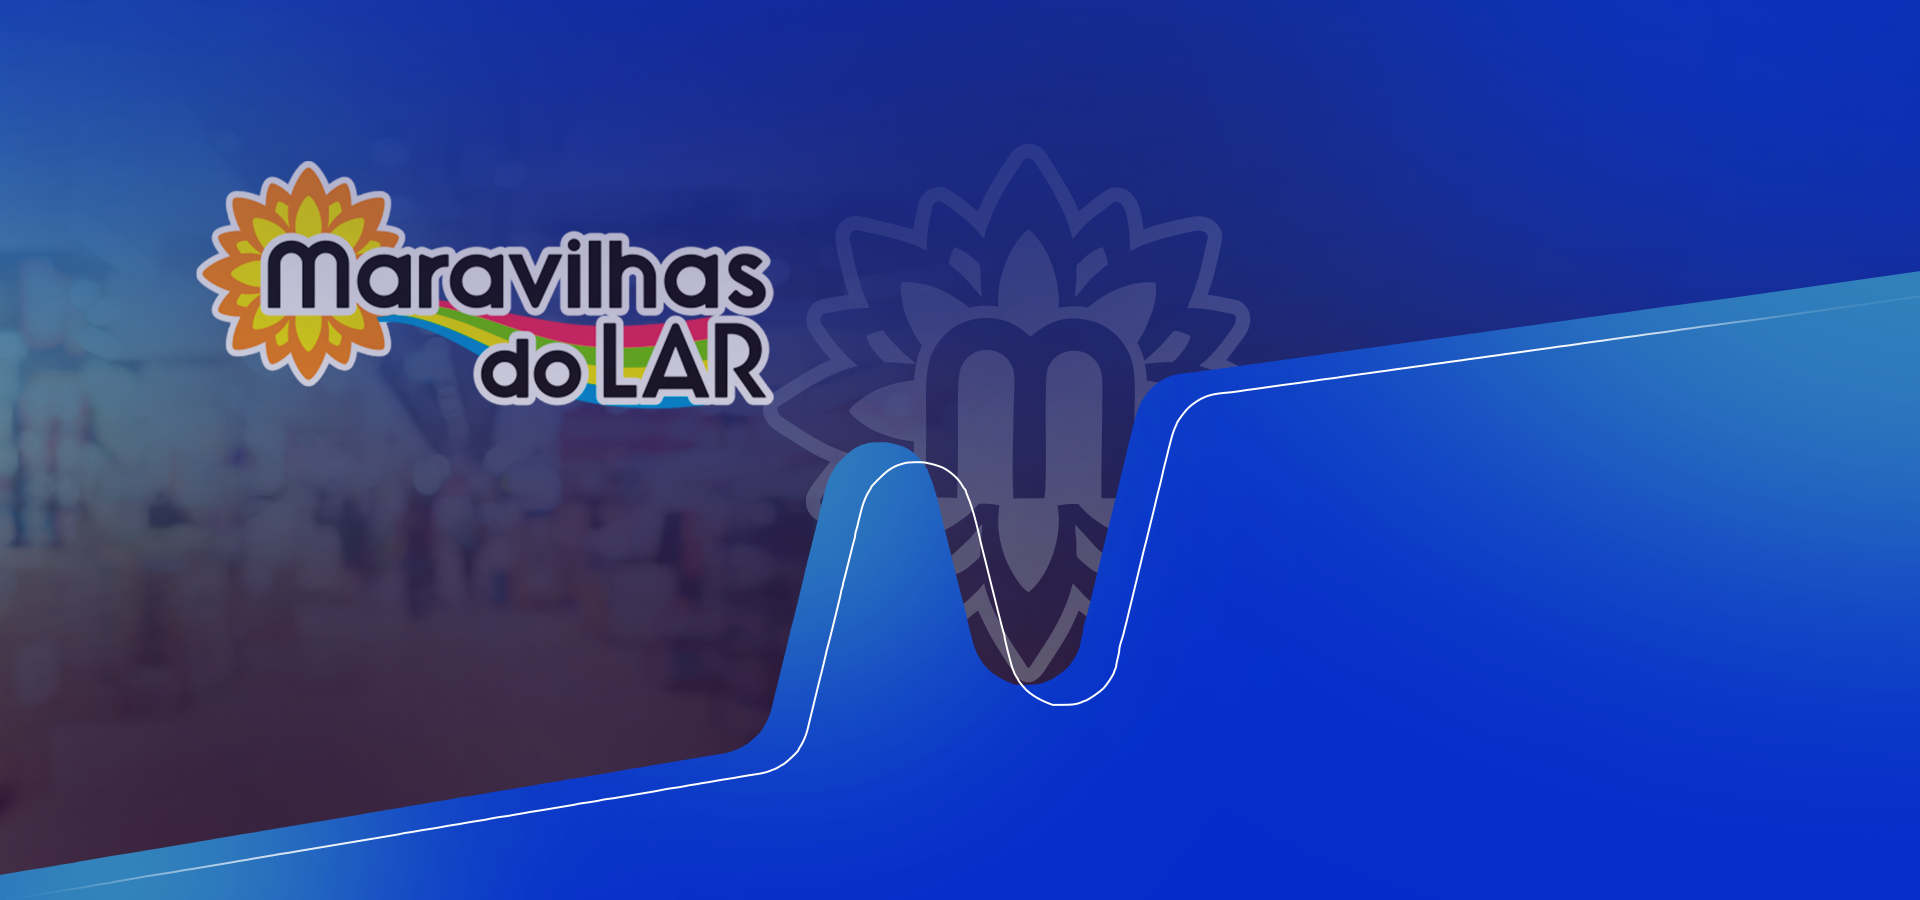
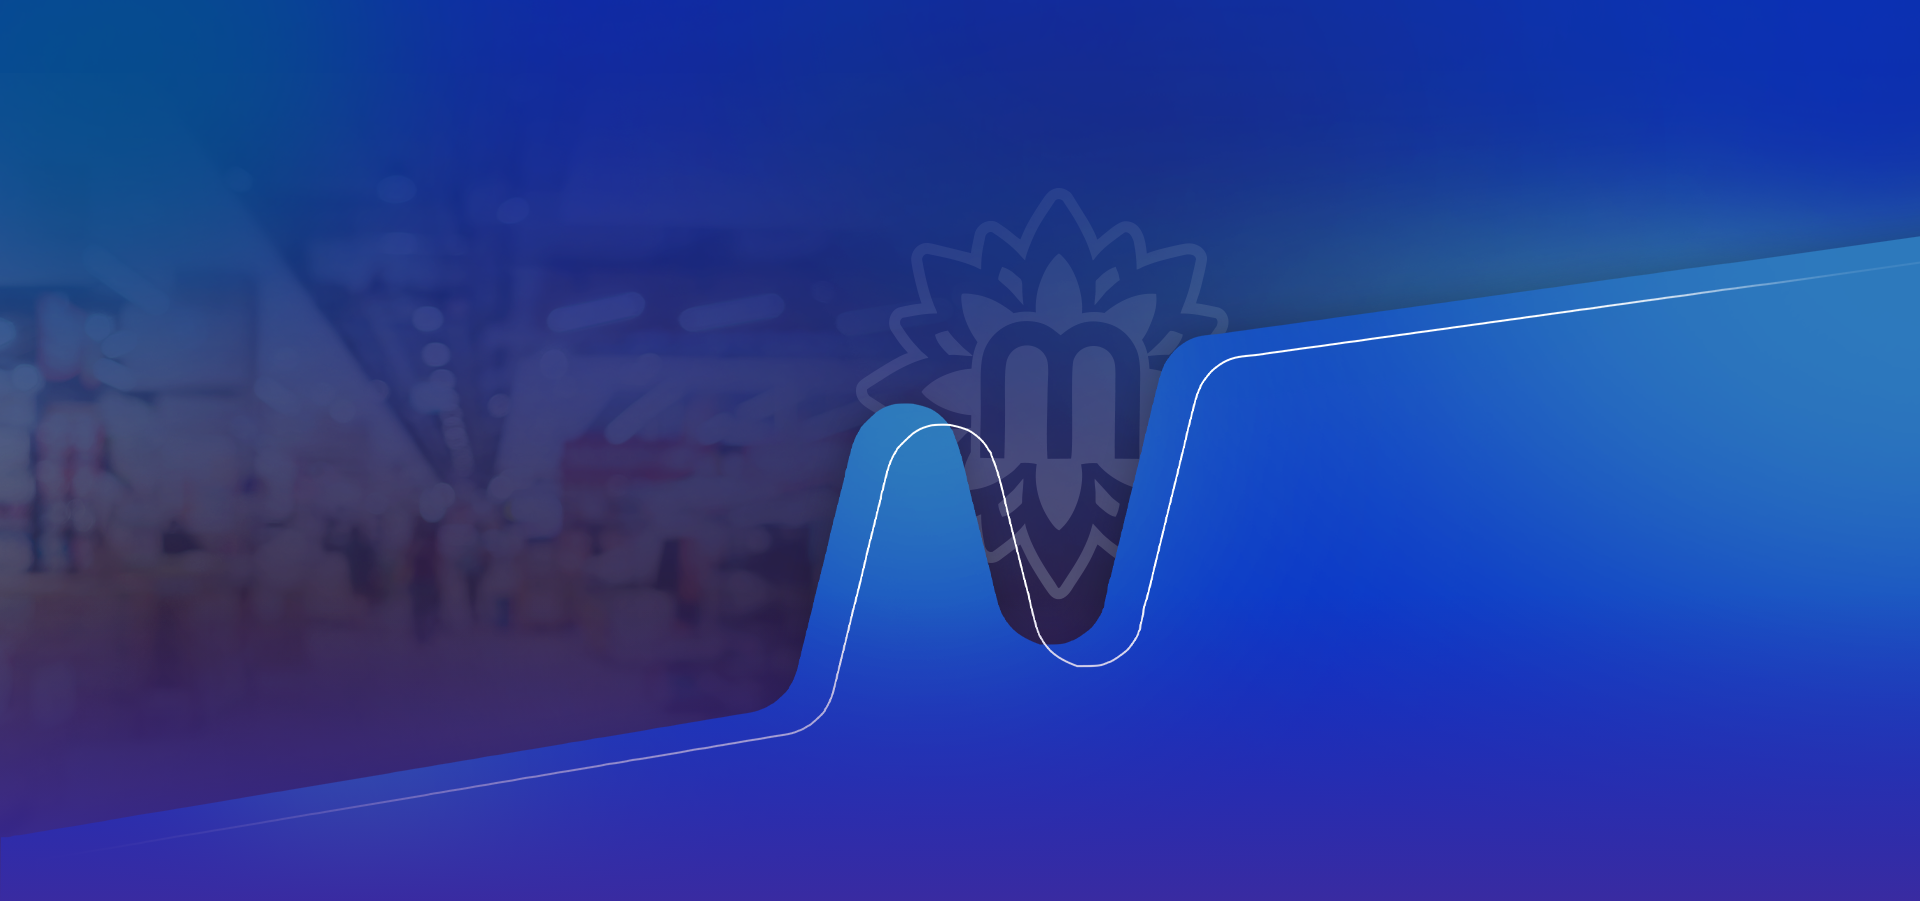
alteracoes junior - maravilhas do lar

diff --git a/components/Headerhome.js b/components/Headerhome.js
@@ -64,7 +64,60 @@ j=d.createElement(s),dl=l!='dataLayer'?'&l='+l:'';j.async=true;j.src=
   </header>
 
   <div className='owl-carousel carrossel-header'>
-    <div className="container-fluid" id="bg-carrossel1">
+  <div className="container-fluid" id="bg-carrossel1">
+      <div className="container">
+        <div className="row" id="carrossel">
+          <div className="col-12">
+            <div className="carrossel-principal">
+              <div className="row">
+                <div className="col-12 col-md-4">
+                  <div className="left-carrossel">
+                    <p>Veja como a Maravilhas do Lar <b>aumentou sua receita em 44%</b> nos 6 primeiros meses de projeto!</p>
+                  </div>
+                </div>
+                <div className="col-3 desktoponly"></div>
+                <div className="col-12 col-md-5">
+                  <div className="right-carrossel">
+                    <div className="cards d-flex text-center">
+                      <div className="card1">
+                        <div className="img-card">
+                          <Image src="/icon-user-top.svg" alt="Usuários" width={51} height={51} />
+                        </div>
+                        <div className="title-card">
+                          <p>+ de <b>46%</b> de aumento em transações</p>
+                        </div>
+                        <div className="desc-card">
+                          <p>Média mensal de transações concluídas no e-commerce.</p>
+                        </div>
+                      </div>
+                      <div className="card2">
+                        <div className="img-card">
+                          <Image src="/icon-money-top.svg" alt="Usuários" width={51} height={51} />
+                        </div>
+                        <div className="title-card">
+                          <p>+ <b>12%</b> no tráfego</p>
+                        </div>
+                        <div className="desc-card">
+                          <p>Aumento alcançado sem alterações na verba média de Investimento em Ads.</p>
+                        </div>
+                      </div>
+                    </div>
+                    <div className="descricao-right">
+                      <p className="desktoponly">O Marketing Digital, mais uma vez, mostrando-se essencial para o crescimento das empresas, independente do seu porte ou história no mercado, dessa forma trazendo resultados cada vez mais expressivos e entregando o seu produto diretamente...</p>
+                      <div className="button-right">
+                        <button><a onClick={urlCases}>Saiba Mais</a></button>
+                      </div>
+                    </div>
+                  </div>
+                </div>
+              </div>
+            </div>
+          </div>
+        </div>
+      </div>
+    </div>
+    
+    <div className="container-fluid" id="bg-carrossel2">
       <div className="container">
         <div className="row" id="carrossel">
           <div className="col-12">
@@ -118,7 +171,8 @@ j=d.createElement(s),dl=l!='dataLayer'?'&l='+l:'';j.async=true;j.src=
         </div>
       </div>
     </div>
-    <div className="container-fluid" id="bg-carrossel2">
+
+    <div className="container-fluid" id="bg-carrossel3">
       <div className="container">
         <div className="row" id="carrossel">
           <div className="col-12">

diff --git a/styles/globals.css b/styles/globals.css
@@ -256,31 +256,57 @@ a:hover, a {
   z-index: 2;
 }
 
+/*Alteração Maravilhas*/
 #bg-carrossel1 {
+  background-image: url(/bg-maravilhas-home.webp);
+  background-size: cover;
+  background-position-x: right;
+  background-position-y: top;
+}
+/*Alteração Maravilhas*/
+
+#bg-carrossel2 {
   background-image: url(/bg-bialetti-home2.webp);
   background-size: cover;
   background-position-x: right;
   background-position-y: top;
 }
 
-/* #bg-carrossel3 {
-  background-image: url(/bg-maravilhas-home.webp);
-  background-size: cover;
-  background-position-x: right;
-  background-position-y: top;
-} */
-
-#bg-carrossel2 {
+#bg-carrossel3 {
   background-image: url('/bg-nairuz-home.webp');
   background-size: cover;
   background-position-x: right;
   background-position-y: top;
 }
 
+/*Alteração Maravilhas, navs e dots*/
 .owl-carousel.carrossel-header .owl-nav,
 .owl-carousel.carrossel-header .owl-dots {
-  display: none;
+  display: flex;
+  position: absolute;
+  top: 26rem;
+  left: 13rem;
+  filter: brightness(7.0);
 }
+
+.owl-carousel.carrossel-header .owl-dots{
+  position: absolute;
+  top: 13.5rem;
+  left: calc(13rem - 10px);
+}
+
+.owl-carousel.carrossel-header .owl-dots .owl-dot{
+  margin: 0 10px;
+  background-color: #fff;
+  width: 14px;
+  height: 14px;
+  border-radius: 50%;
+}
+
+.owl-carousel.carrossel-header .owl-dots .active{
+  background-color: aqua;
+}
+/*Alteração Maravilhas, navs e dots*/
 
 .menu ul {
   display: flex;
@@ -695,11 +721,11 @@ a:hover, a {
   line-height: 1.4;
 }
 
-#bg-carrossel2 .op-0 {
+#bg-carrossel3 .op-0 {
   opacity: 0;
 }
 
-#bg-carrossel2 .descricao-right {
+#bg-carrossel3 .descricao-right {
   bottom: 2rem;
   top: 0;
 }

diff --git a/styles/responsive.css b/styles/responsive.css
@@ -31,13 +31,30 @@
   /* Header */
 
   #bg-carrossel1,
-  #bg-carrossel2 {
+  #bg-carrossel2,
+  #bg-carrossel3 {
     background-image: url(/bg-header-mob.png);
     padding: 4rem 0 8rem 0;
     background-repeat: no-repeat;
     background-size: cover;
     background-position-y: 3rem;
   }
+
+  .owl-carousel.carrossel-header .owl-nav {
+    display: none;
+  }
+
+  .owl-carousel.carrossel-header {
+    background: transparent linear-gradient(0deg, #011177 0%, #011177 100%) 0% 0% no-repeat padding-box;
+    position: relative;
+  }
+
+  .owl-carousel.carrossel-header .owl-dots {
+    position: absolute;
+    top: 16.5rem;
+    left: 50%;
+    transform: translate(-50%);
+}
 
   .headermob {
     display: flex;
